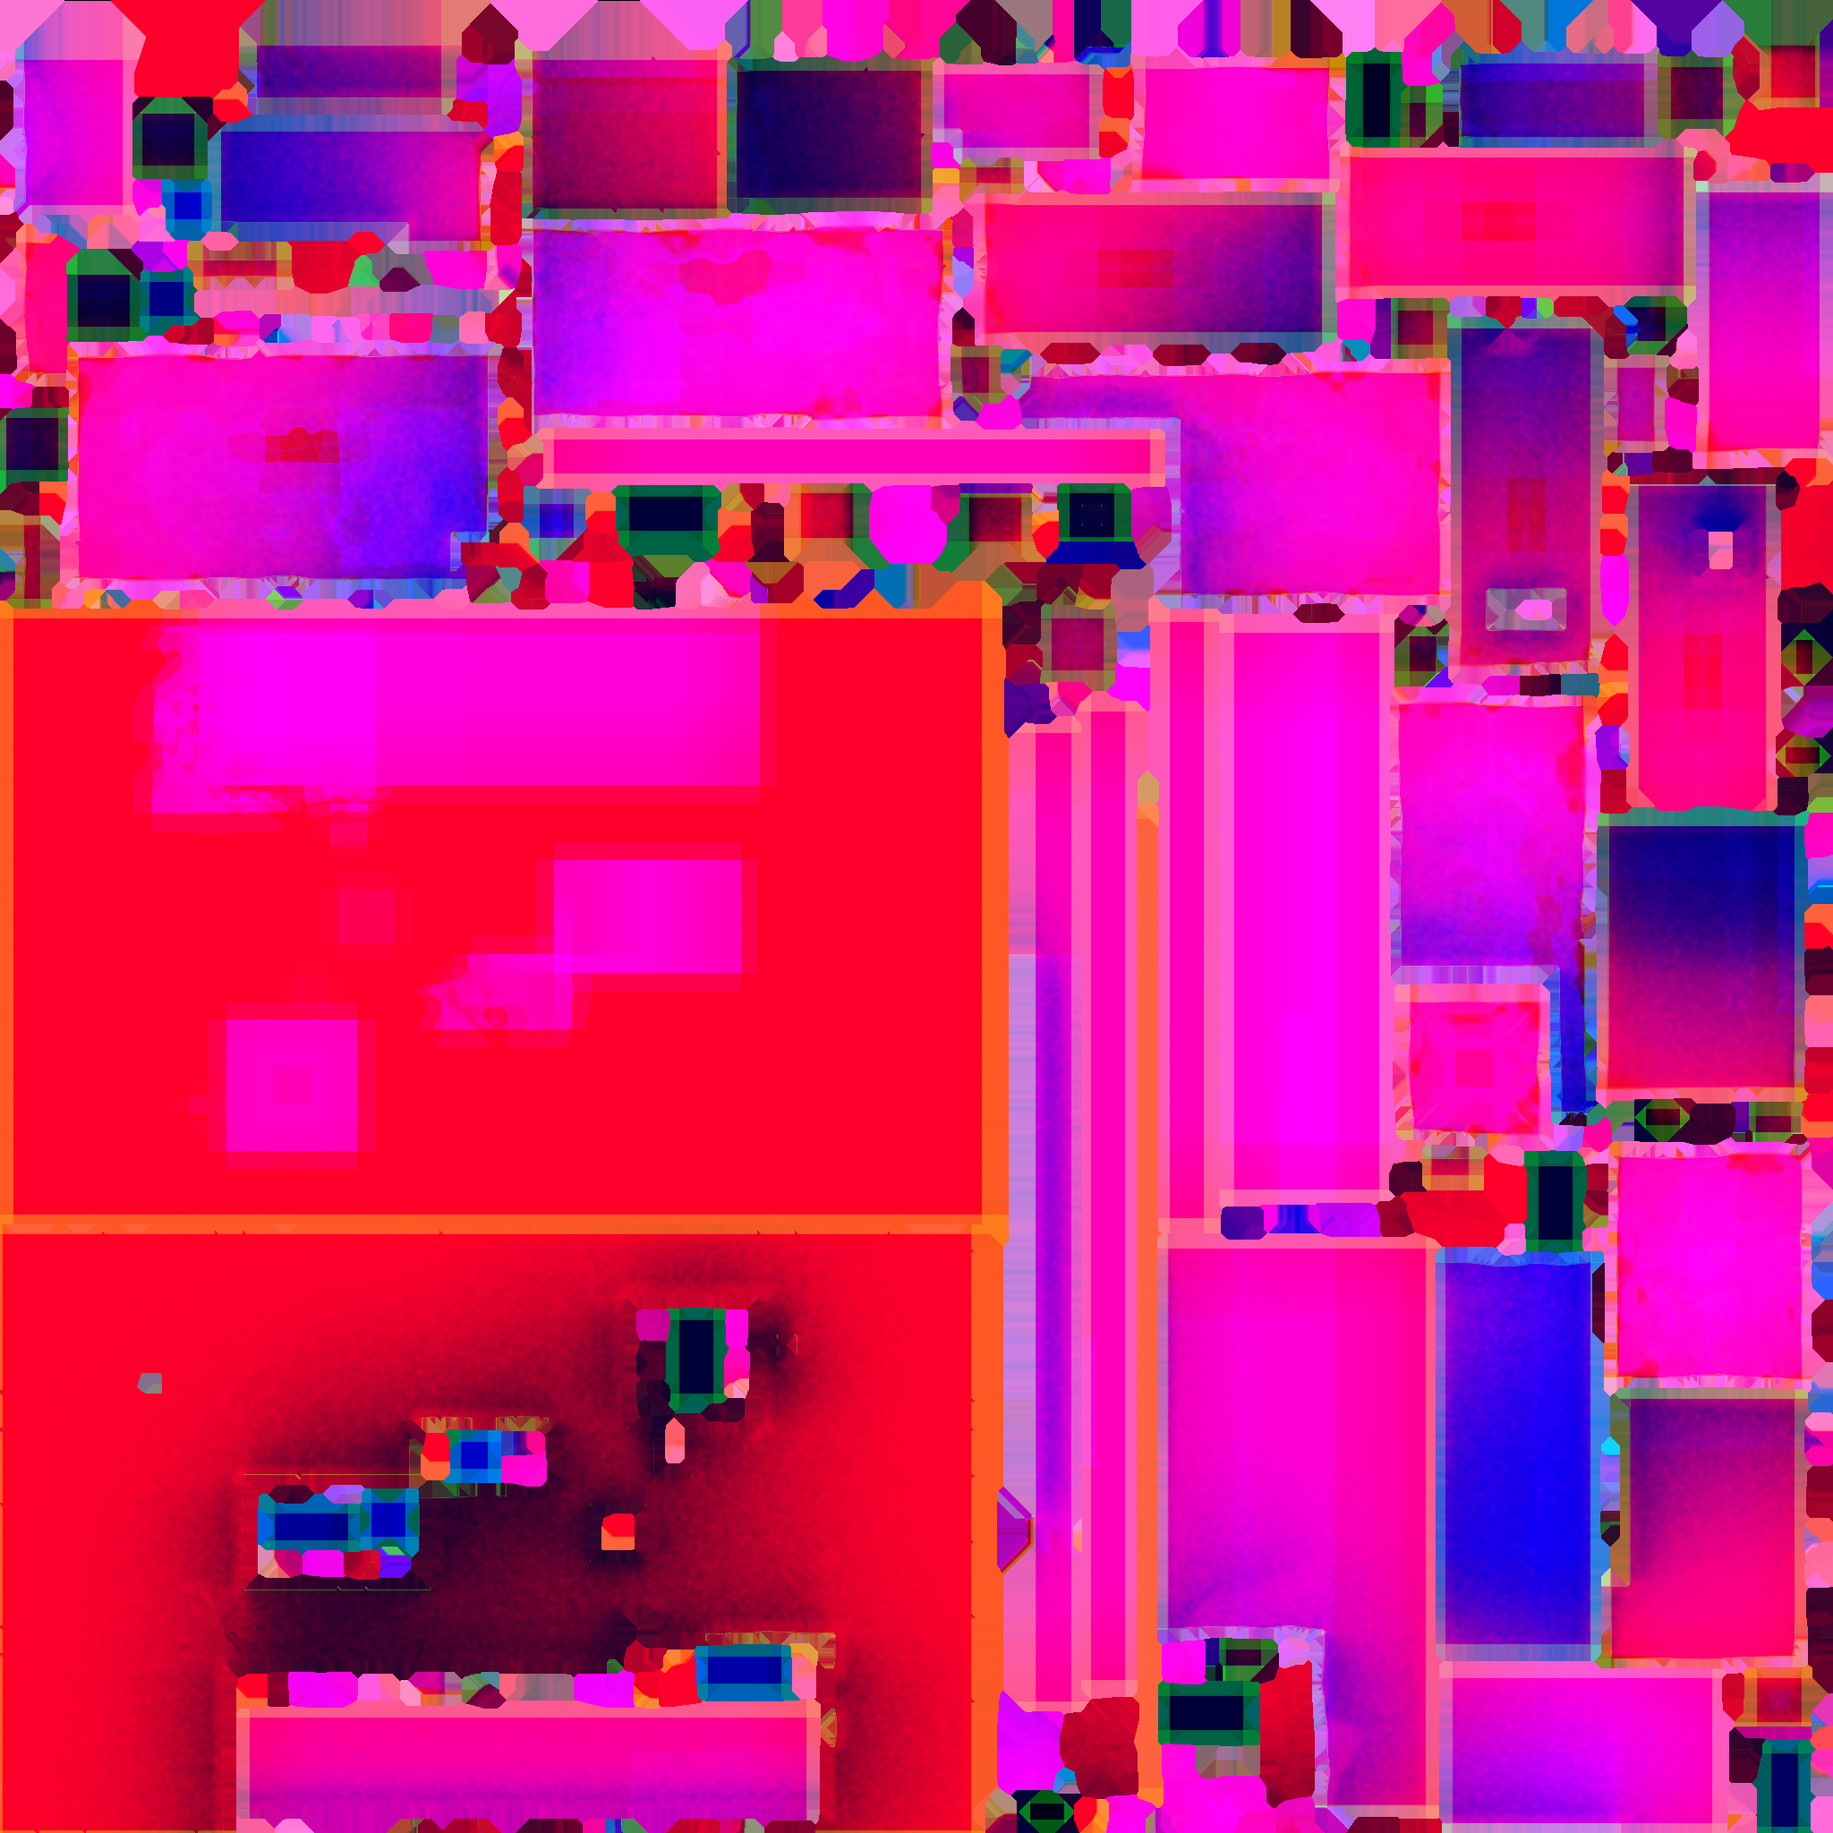
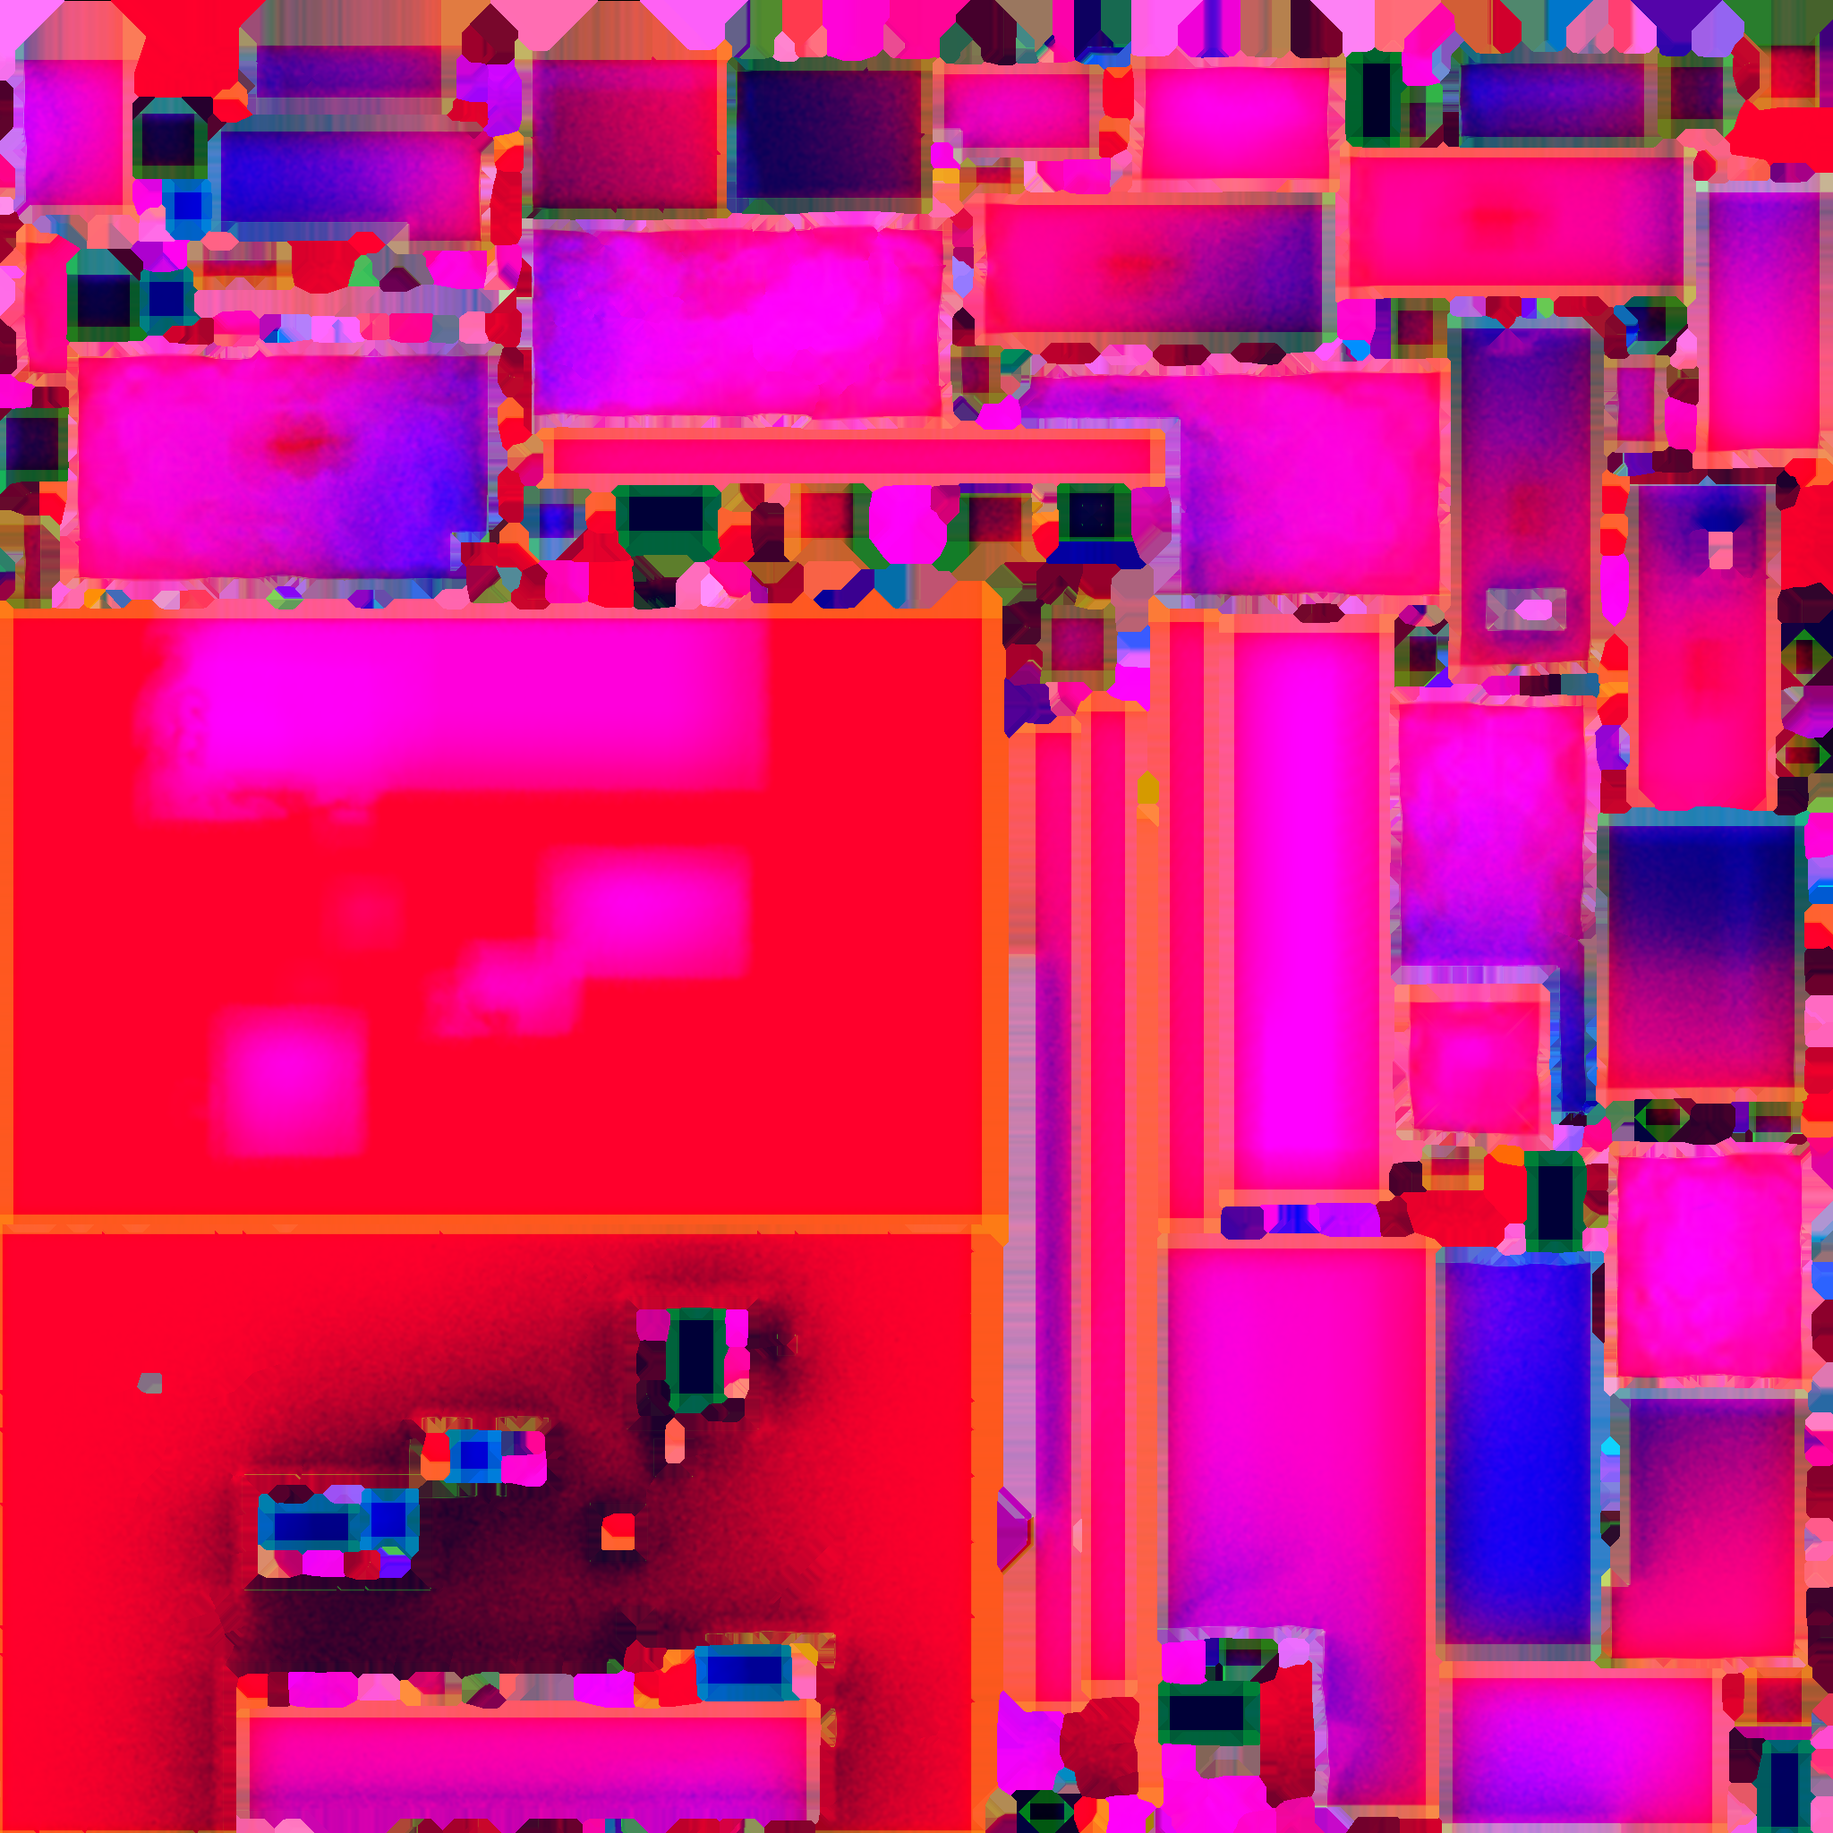
Update surface packing texture baking with thickness filtering and validation Add deterministic thickness estimation using cone-sampling and UV-space filtering Include randomized thickness validation images for surface packing workflow Update CLI diagnostics to output thickness cone angle and filter

diff --git a/src/sdf_core/src/bake_surface_pack.cpp b/src/sdf_core/src/bake_surface_pack.cpp
@@ -4,6 +4,7 @@
 #include <array>
 #include <atomic>
 #include <cmath>
+#include <cstdint>
 #include <vector>
 
 #include "progress_utils.h"
@@ -79,6 +80,43 @@ int compute_auto_dilation_pass_count(int width, int height)
 {
   const int max_dimension = std::max(width, height);
   return std::clamp(max_dimension / 32, 16, 64);
+}
+
+float compute_spatial_weight(int dx, int dy, int radius)
+{
+  const float sigma = std::max(0.75f, static_cast<float>(radius) * 0.75f);
+  const float distance_squared = static_cast<float>(dx * dx + dy * dy);
+  const float sigma_squared = sigma * sigma;
+  return std::exp(-distance_squared / (2.0f * sigma_squared));
+}
+
+float compute_normal_weight(const Vec3 &lhs, const Vec3 &rhs)
+{
+  constexpr float kNormalSigma = 0.15f;
+  const float alignment = clampf(dot(lhs, rhs), 0.0f, 1.0f);
+  return std::exp(-(1.0f - alignment) / kNormalSigma);
+}
+
+std::uint32_t hash_u32(std::uint32_t value)
+{
+  value ^= value >> 16;
+  value *= 0x7feb352dU;
+  value ^= value >> 15;
+  value *= 0x846ca68bU;
+  value ^= value >> 16;
+  return value;
+}
+
+float fractf(float value)
+{
+  return value - std::floor(value);
+}
+
+// This is not true blue noise, but it gives a stable low-clumping pattern
+// that is much better behaved than plain hash-based white noise in UV space.
+float interleaved_gradient_noise(float x, float y)
+{
+  return fractf(52.9829189f * fractf(0.06711056f * x + 0.00583715f * y));
 }
 
 unsigned char to_byte(float value)
@@ -229,8 +267,12 @@ float estimate_thickness_signal(
   const Vec3 &surface_normal,
   const Vec3 &tangent,
   const Vec3 &bitangent,
+  int texel_x,
+  int texel_y,
+  std::uint32_t seed,
   float surface_epsilon,
-  float max_distance)
+  float max_distance,
+  float cone_angle_degrees)
 {
   if (max_distance <= 0.0f)
   {
@@ -324,27 +366,24 @@ float estimate_thickness_signal(
     };
 
   constexpr float kPi = 3.14159265358979323846f;
-  constexpr float kThicknessConeAngleDegrees = 25.0f;
-  const float cone_offset = std::tan(kThicknessConeAngleDegrees * kPi / 180.0f);
   const Vec3 inward = -surface_normal;
-  const std::array<Vec3, 5> sample_directions = {{
-    inward,
-    normalized(inward + tangent * cone_offset),
-    normalized(inward - tangent * cone_offset),
-    normalized(inward + bitangent * cone_offset),
-    normalized(inward - bitangent * cone_offset)
-  }};
-  const std::array<float, 5> sample_weights = {{2.0f, 1.0f, 1.0f, 1.0f, 1.0f}};
+  const float clamped_cone_angle_degrees = clampf(cone_angle_degrees, 0.0f, 89.0f);
+  const float cos_max_theta = std::cos(clamped_cone_angle_degrees * kPi / 180.0f);
+  const float seed_offset_x = static_cast<float>(hash_u32(seed ^ 0x68bc21ebu) & 1023u) / 1024.0f;
+  const float seed_offset_y = static_cast<float>(hash_u32(seed ^ 0x02e5be93u) & 1023u) / 1024.0f;
+  const float x = static_cast<float>(texel_x);
+  const float y = static_cast<float>(texel_y);
+  const float u1 = interleaved_gradient_noise(x + 0.5f + seed_offset_x, y + 0.5f + seed_offset_y);
+  const float u2 = interleaved_gradient_noise(x + 17.5f + seed_offset_y, y + 47.5f + seed_offset_x);
+  const float cos_theta = 1.0f - u1 * (1.0f - cos_max_theta);
+  const float sin_theta = std::sqrt(std::max(0.0f, 1.0f - cos_theta * cos_theta));
+  const float phi = 2.0f * kPi * u2;
+  const Vec3 direction = normalized(
+    inward * cos_theta +
+    tangent * (std::cos(phi) * sin_theta) +
+    bitangent * (std::sin(phi) * sin_theta));
 
-  float weighted_sum = 0.0f;
-  float weight_sum = 0.0f;
-  for (std::size_t sample_index = 0; sample_index < sample_directions.size(); ++sample_index)
-  {
-    weighted_sum += trace_thickness_along_direction(sample_directions[sample_index]) * sample_weights[sample_index];
-    weight_sum += sample_weights[sample_index];
-  }
-
-  return weight_sum > 0.0f ? clampf(weighted_sum / weight_sum, 0.0f, 1.0f) : 0.0f;
+  return trace_thickness_along_direction(direction);
 }
 
 }  // namespace
@@ -393,8 +432,10 @@ bool bake_surface_pack_texture(
 
   std::vector<float> curvature_values(texel_count, 0.0f);
   std::vector<float> thickness_values(texel_count, 0.0f);
+  std::vector<Vec3> surface_normals(texel_count);
   std::vector<CoveredSurfaceTexel> covered_texels(texel_count);
   std::vector<std::uint8_t> valid(texel_count, 0u);
+  std::vector<int> chart_ids(texel_count, -1);
   std::vector<int> source_texels(texel_count, -1);
   std::vector<TriangleTangentBasis> triangle_tangent_bases(uv_mesh.triangles.size());
 
@@ -543,14 +584,20 @@ bool bake_surface_pack_texture(
         surface_epsilon,
         curvature_sample_radius,
         settings.projection_iterations);
+      surface_normals[texel_index] = surface_normal;
+      chart_ids[texel_index] = triangle.uv_chart_id;
       thickness_values[texel_index] = estimate_thickness_signal(
         scene,
         surface_position,
         surface_normal,
         tangent,
         bitangent,
+        x,
+        y,
+        settings.seed,
         surface_epsilon,
-        settings.thickness_max_distance);
+        settings.thickness_max_distance,
+        settings.thickness_cone_angle_degrees);
     }
 
     const int done = shaded_rows.fetch_add(1) + 1;
@@ -558,6 +605,79 @@ bool bake_surface_pack_texture(
   }
 
   shade_progress.finish();
+
+  const int thickness_filter_pass_count = std::max(settings.thickness_filter_passes, 0);
+  const int thickness_filter_radius = std::max(settings.thickness_filter_radius, 0);
+  if (thickness_filter_pass_count > 0 && thickness_filter_radius > 0)
+  {
+    detail::ProgressScope thickness_filter_progress(
+      progress_callback,
+      "Filter thickness",
+      static_cast<std::uint64_t>(thickness_filter_pass_count) * static_cast<std::uint64_t>(settings.height));
+
+    for (int pass = 0; pass < thickness_filter_pass_count; ++pass)
+    {
+      std::vector<float> next_thickness = thickness_values;
+      std::atomic<int> filter_rows_completed = 0;
+      const std::uint64_t pass_base = static_cast<std::uint64_t>(pass) * static_cast<std::uint64_t>(settings.height);
+
+#ifdef _OPENMP
+#pragma omp parallel for schedule(static)
+#endif
+      for (int y = 0; y < settings.height; ++y)
+      {
+        for (int x = 0; x < settings.width; ++x)
+        {
+          const std::size_t texel_index = static_cast<std::size_t>(x + y * settings.width);
+          if (valid[texel_index] == 0)
+          {
+            continue;
+          }
+
+          const int center_chart_id = chart_ids[texel_index];
+          const Vec3 &center_normal = surface_normals[texel_index];
+          float weighted_sum = 0.0f;
+          float weight_sum = 0.0f;
+
+          const int min_y = std::max(0, y - thickness_filter_radius);
+          const int max_y = std::min(settings.height - 1, y + thickness_filter_radius);
+          const int min_x = std::max(0, x - thickness_filter_radius);
+          const int max_x = std::min(settings.width - 1, x + thickness_filter_radius);
+          for (int sample_y = min_y; sample_y <= max_y; ++sample_y)
+          {
+            for (int sample_x = min_x; sample_x <= max_x; ++sample_x)
+            {
+              const std::size_t sample_index = static_cast<std::size_t>(sample_x + sample_y * settings.width);
+              if (valid[sample_index] == 0 || chart_ids[sample_index] != center_chart_id)
+              {
+                continue;
+              }
+
+              const int dx = sample_x - x;
+              const int dy = sample_y - y;
+              const float spatial_weight = compute_spatial_weight(dx, dy, thickness_filter_radius);
+              const float normal_weight = compute_normal_weight(center_normal, surface_normals[sample_index]);
+              const float weight = spatial_weight * normal_weight;
+              weighted_sum += thickness_values[sample_index] * weight;
+              weight_sum += weight;
+            }
+          }
+
+          if (weight_sum > 1.0e-6f)
+          {
+            next_thickness[texel_index] = weighted_sum / weight_sum;
+          }
+        }
+
+        const int done = filter_rows_completed.fetch_add(1) + 1;
+        thickness_filter_progress.update(pass_base + static_cast<std::uint64_t>(done));
+      }
+
+      thickness_values.swap(next_thickness);
+    }
+
+    thickness_filter_progress.finish();
+  }
 
   const int dilation_pass_count =
     settings.dilation_passes >= 0
@@ -661,6 +781,8 @@ bool bake_surface_pack_texture(
     result->baked_texels = baked_texels;
     result->covered_texels = covered_texel_count;
     result->dilated_texels = covered_texel_count >= baked_texels ? (covered_texel_count - baked_texels) : 0;
+    result->thickness_filter_passes = thickness_filter_pass_count;
+    result->thickness_filter_radius = thickness_filter_pass_count > 0 ? thickness_filter_radius : 0;
     result->dilation_passes = dilation_pass_count;
   }
 

diff --git a/tests/test_main.cpp b/tests/test_main.cpp
@@ -862,6 +862,23 @@ void test_surface_pack_bake_writes_png()
   expect_true(surface_result.baked_texels > 0, "surface pack should cover at least one texel");
   expect_true(surface_result.covered_texels >= surface_result.baked_texels, "surface pack dilation should never reduce texel coverage");
   expect_true(surface_result.dilation_passes >= 16, "surface pack auto dilation should use a non-trivial pass count");
+  expect_true(surface_result.thickness_filter_passes > 0, "surface pack should report thickness filtering");
+  expect_true(surface_result.thickness_filter_radius > 0, "surface pack should report a non-zero thickness filter radius");
+
+  sdf::Rgb8Image image_repeat;
+  sdf::SurfacePackResult repeat_result;
+  const bool bake_repeat_ok = sdf::bake_surface_pack_texture(
+    scene_file.scene,
+    unwrapped_mesh,
+    ao_image,
+    surface_settings,
+    &image_repeat,
+    &repeat_result,
+    &error_message);
+  expect_true(bake_repeat_ok, "surface pack stochastic bake should stay reproducible");
+  expect_true(image_repeat.width == image.width, "repeat bake width should match");
+  expect_true(image_repeat.height == image.height, "repeat bake height should match");
+  expect_true(image_repeat.pixels == image.pixels, "surface pack stochastic bake should be deterministic for a fixed seed");
 
   unsigned char max_red = 0;
   unsigned char max_green = 0;

diff --git a/src/sdf_core/include/sdf/bake_surface_pack.h b/src/sdf_core/include/sdf/bake_surface_pack.h
@@ -1,6 +1,7 @@
 #pragma once
 
 #include <cstddef>
+#include <cstdint>
 #include <string>
 
 #include "sdf/image_write.h"
@@ -17,10 +18,14 @@ struct SurfacePackSettings
   int height = 0;
   int dilation_passes = -1;
   int projection_iterations = 4;
+  int thickness_filter_passes = 2;
+  int thickness_filter_radius = 3;
   float surface_epsilon = 0.0f;
   float curvature_sample_radius = 0.0f;
   float thickness_max_distance = 5.0f;
+  float thickness_cone_angle_degrees = 30.0f;
   bool flip_v = true;
+  std::uint32_t seed = 1337;
 };
 
 struct SurfacePackResult
@@ -28,6 +33,8 @@ struct SurfacePackResult
   std::size_t baked_texels = 0;
   std::size_t dilated_texels = 0;
   std::size_t covered_texels = 0;
+  int thickness_filter_passes = 0;
+  int thickness_filter_radius = 0;
   int dilation_passes = 0;
 };
 

diff --git a/src/sdf_cli/main.cpp b/src/sdf_cli/main.cpp
@@ -872,6 +872,9 @@ int main(int argc, char **argv)
     std::cout << "Surface pack dilated texels: " << surface_pack_result.dilated_texels << '\n';
     std::cout << "Surface pack covered texels: " << surface_pack_result.covered_texels << '\n';
     std::cout << "Surface pack thickness max distance: " << surface_pack_settings.thickness_max_distance << '\n';
+    std::cout << "Surface pack thickness cone angle: " << surface_pack_settings.thickness_cone_angle_degrees << '\n';
+    std::cout << "Surface pack thickness filter passes: " << surface_pack_result.thickness_filter_passes << '\n';
+    std::cout << "Surface pack thickness filter radius: " << surface_pack_result.thickness_filter_radius << '\n';
     std::cout << "Surface pack dilation passes: " << surface_pack_result.dilation_passes << '\n';
   }
 

diff --git a/documentation/SDF_Surface_Pack_Texture_Plan.md b/documentation/SDF_Surface_Pack_Texture_Plan.md
@@ -4,6 +4,8 @@
 
 Documented and first implementation milestone delivered on **August 7, 2026**.
 
+The current stochastic-thickness revision was updated on **August 8, 2026**.
+
 This note records the decision to add a compact packed texture alongside the tangent-space normal map.
 
 ---
@@ -68,7 +70,17 @@ This is intentionally an artist-friendly scalar mask, not a physically strict pr
 
 ### Thickness
 
-Thickness is currently estimated by marching from the surface inward along the opposite of the SDF normal until the ray exits the solid or hits a configurable maximum distance.
+Thickness is currently estimated with a **single stochastic inward ray per texel**.
+
+In practice:
+
+- the UV texel is projected back to the SDF surface;
+- one inward direction is sampled in a cone around `-normal`;
+- the direction is deterministic for a given texel and seed, so the bake remains reproducible;
+- the ray marches through the solid until it exits or reaches the configured maximum distance;
+- the resulting noisy field is filtered in UV space per chart to recover a stable large-mass signal.
+
+The current direction pattern is a stable low-clumping pseudo-random distribution, meant as a practical blue-noise-like compromise rather than strict white noise.
 
 Default maximum distance:
 
@@ -97,6 +109,6 @@ Those can be added later if the current pack proves useful in production.
 Items already worth tracking for later:
 
 - expose curvature tuning in the CLI only if real production usage requires it;
-- evaluate whether thickness should optionally use a denoised or smoothed variant;
+- evaluate whether the thickness filter should become user-configurable in the CLI;
 - study additional packing presets if future materials need different signal groupings;
 - keep the pack aligned with shared-texture LOD work instead of duplicating texture sets.
